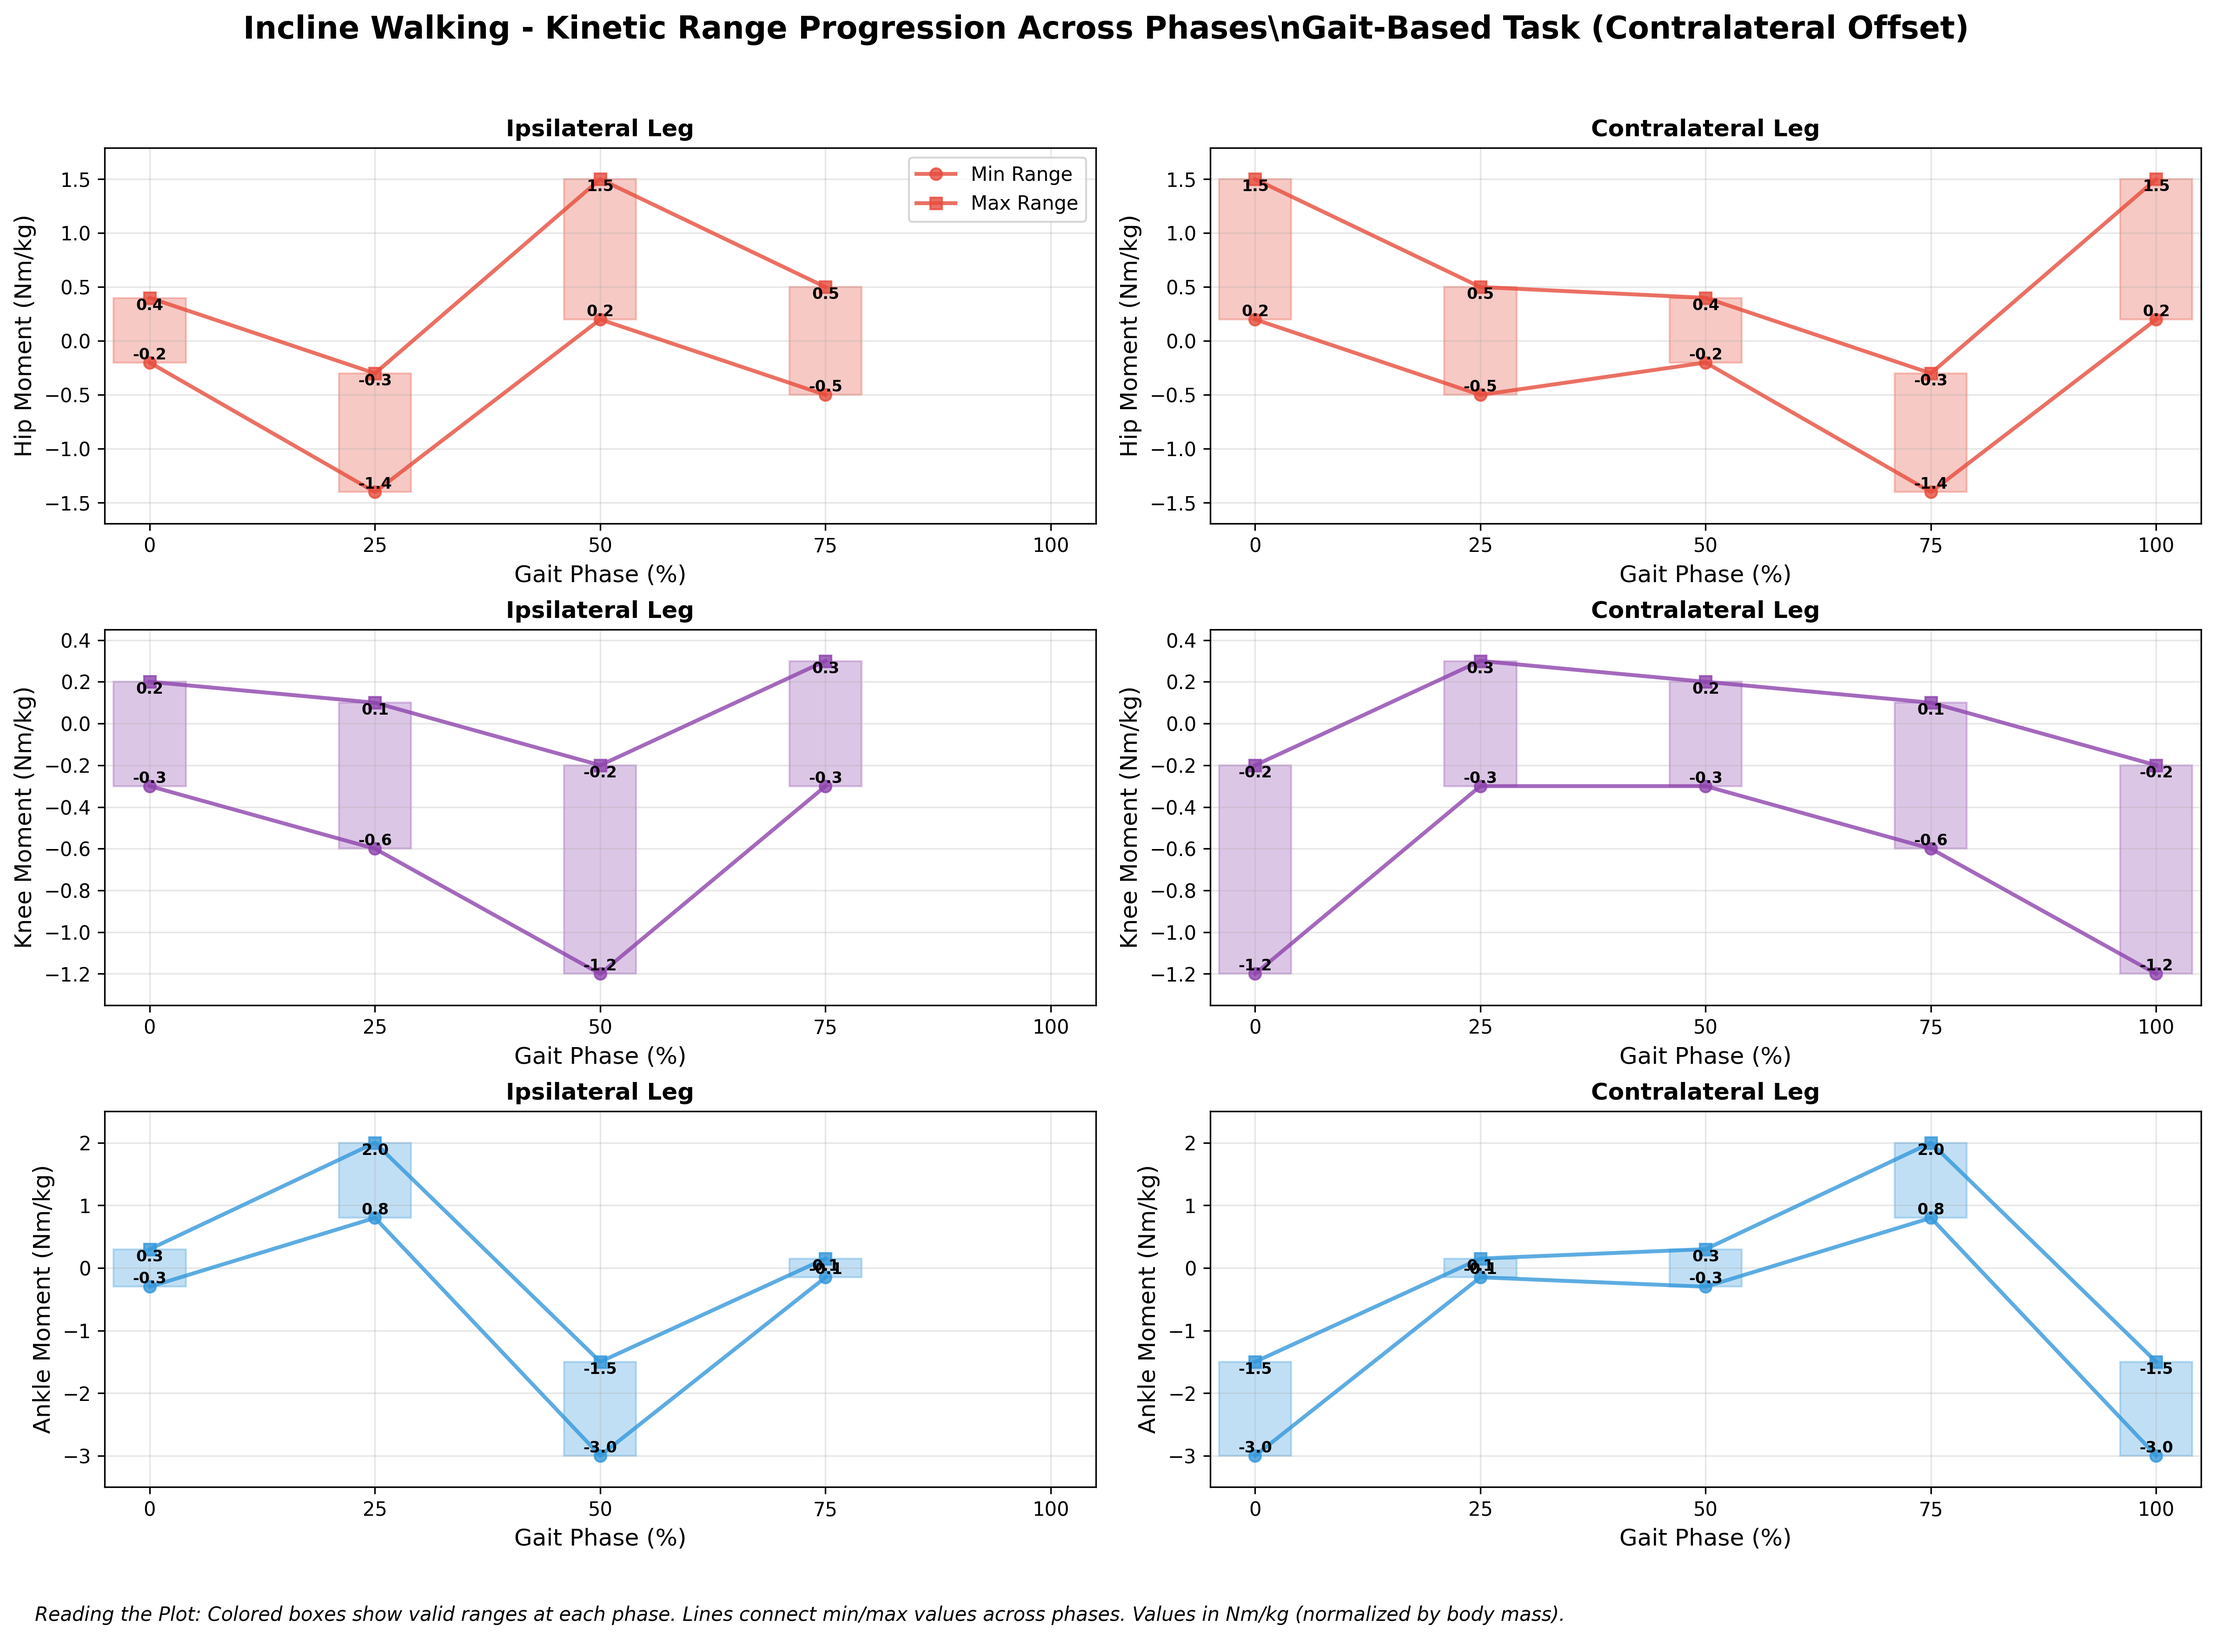
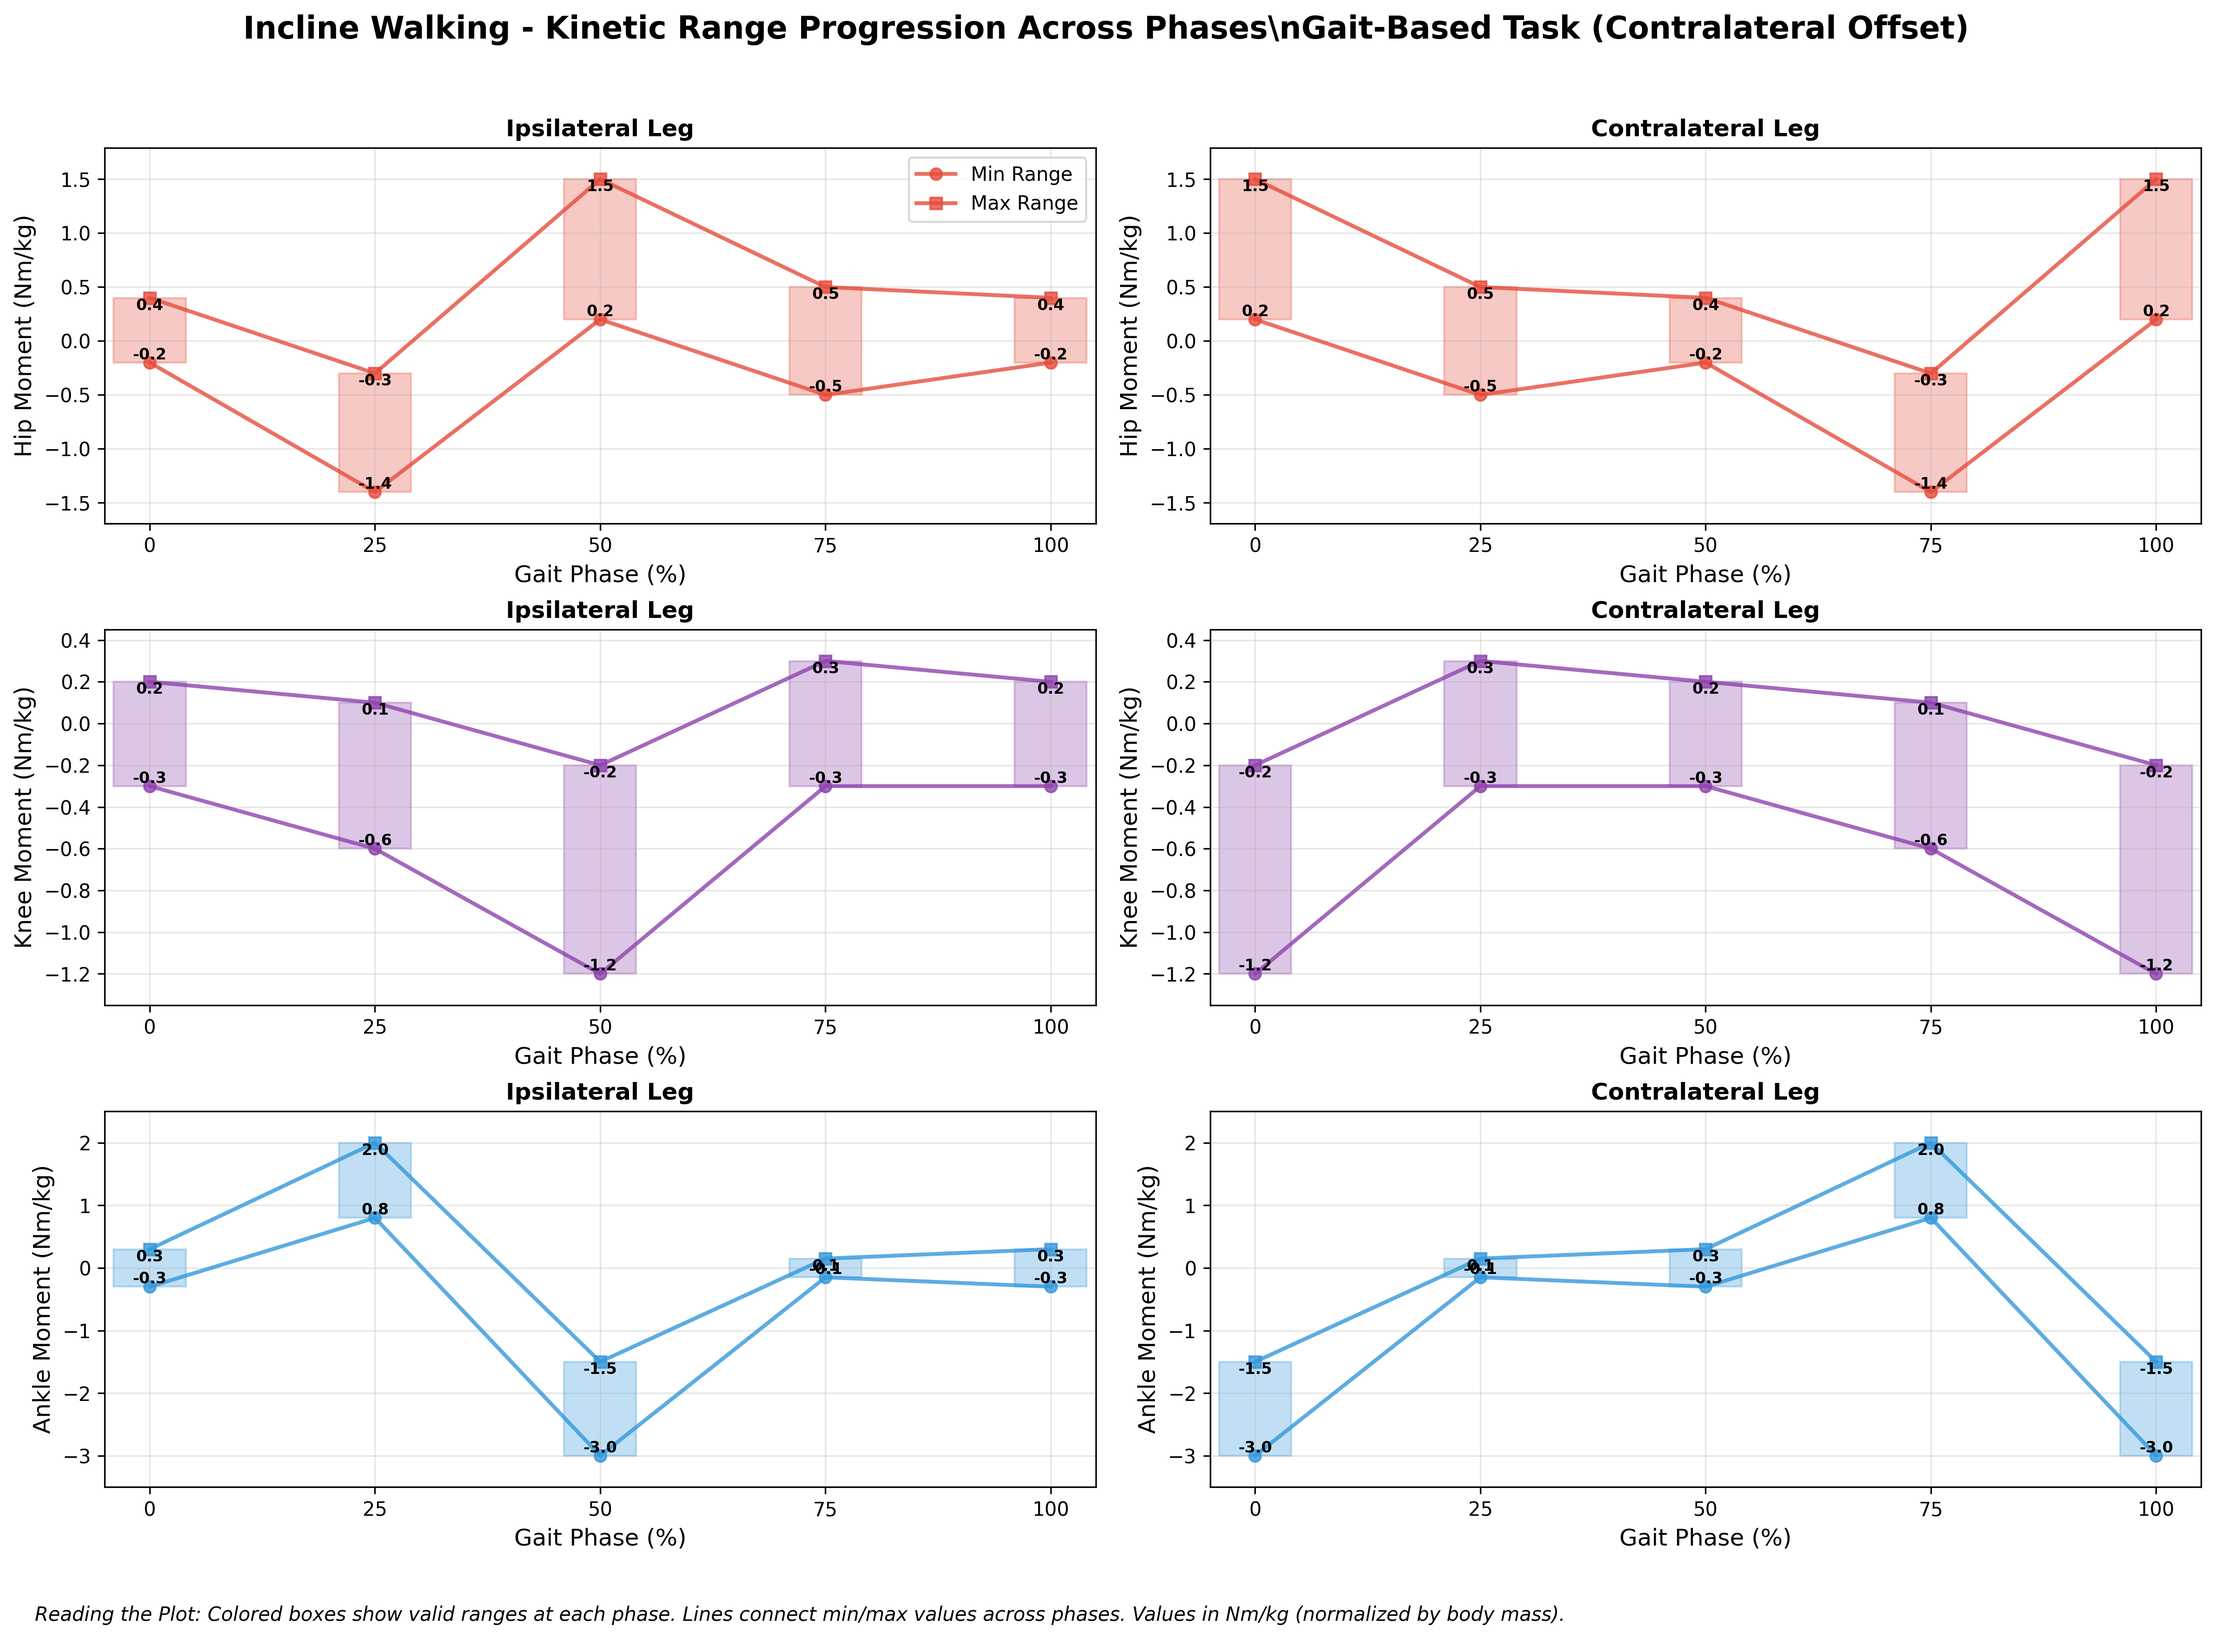
Add 100% phase cyclical completion to both kinematic and kinetic validation
- Add Phase 100% sections to all tasks with values identical to 0% phase
- Ensures proper cyclical visualization in phase progression plots
- Updated both kinematic and kinetic validation expectation files
- Regenerated all 6 phase progression plots (3 kinematic + 3 kinetic)
- Perfect cyclical completion now shown: 100% phase = 0% phase values
- Enhances plot readability and biomechanical accuracy for gait cycle analysis

Both validation systems now show complete gait cycle patterns.

🤖 Generated with [Claude Code](https://claude.ai/code)

diff --git a/docs/standard_spec/validation_expectations_kinetic.md b/docs/standard_spec/validation_expectations_kinetic.md
@@ -206,6 +206,18 @@ Following the **OpenSim coordinate system** as defined in [sign_conventions.md](
 | cop_x_m | -0.20 | 0.20 | m | COP undefined during swing (no ground contact) - **Literature estimate** |
 | cop_y_m | -0.20 | 0.20 | m | COP undefined during swing (no ground contact) - **Literature estimate** |
 
+#### Phase 100% (Heel Strike - Cycle Complete)
+| Variable | Min_Value | Max_Value | Units | Notes |
+|----------|-----------|-----------|-------|-------|
+| vertical_grf_N_kg | 8.0 | 12.0 | N/kg | Return to initial loading response (same as 0%) |
+| ap_grf_N_kg | -2.0 | 0.5 | N/kg | Return to initial braking forces (same as 0%) |
+| ml_grf_N_kg | -1.0 | 1.0 | N/kg | Return to lateral balance (same as 0%) |
+| hip_moment_ipsi_Nm_kg | -0.1 | 0.3 | Nm/kg | Return to small hip flexor moment (same as 0%) |
+| knee_moment_ipsi_Nm_kg | -0.2 | 0.1 | Nm/kg | Return to small knee flexor moment (same as 0%) |
+| ankle_moment_ipsi_Nm_kg | -0.3 | 0.3 | Nm/kg | Return to ankle moment at contact (same as 0%) |
+| cop_x_m | -0.10 | -0.05 | m | Return to COP posterior position (same as 0%) |
+| cop_y_m | -0.03 | 0.03 | m | Return to COP near foot center (same as 0%) |
+
 **Contralateral Offset Logic:**
 - **Phase 0% ipsilateral** (heel strike) = **Phase 50% contralateral** (toe-off)
 - **Phase 25% ipsilateral** (mid-stance) = **Phase 75% contralateral** (mid-swing)  
@@ -268,6 +280,18 @@ Following the **OpenSim coordinate system** as defined in [sign_conventions.md](
 | cop_x_m | -0.20 | 0.20 | m | COP undefined during swing - **NEEDS RESEARCH** |
 | cop_y_m | -0.20 | 0.20 | m | COP undefined during swing - **NEEDS RESEARCH** |
 
+#### Phase 100% (Heel Strike - Cycle Complete)
+| Variable | Min_Value | Max_Value | Units | Notes |
+|----------|-----------|-----------|-------|-------|
+| vertical_grf_N_kg | 6.0 | 14.0 | N/kg | Return to higher incline impact (same as 0%) |
+| ap_grf_N_kg | -4.0 | 0.0 | N/kg | Return to strong braking uphill (same as 0%) |
+| ml_grf_N_kg | -1.2 | 1.2 | N/kg | Return to lateral balance (same as 0%) |
+| hip_moment_ipsi_Nm_kg | -0.2 | 0.4 | Nm/kg | Return to small hip flexor moment (same as 0%) |
+| knee_moment_ipsi_Nm_kg | -0.3 | 0.2 | Nm/kg | Return to small knee moment (same as 0%) |
+| ankle_moment_ipsi_Nm_kg | -0.3 | 0.3 | Nm/kg | Return to ankle moment at contact (same as 0%) |
+| cop_x_m | -0.12 | -0.08 | m | Return to COP posterior position (same as 0%) |
+| cop_y_m | -0.04 | 0.04 | m | Return to COP near center (same as 0%) |
+
 **Contralateral Offset Logic:**
 - **Phase 0% ipsilateral** (heel strike) = **Phase 50% contralateral** (toe-off)
 - **Phase 25% ipsilateral** (mid-stance) = **Phase 75% contralateral** (mid-swing)  
@@ -329,6 +353,18 @@ Following the **OpenSim coordinate system** as defined in [sign_conventions.md](
 | ankle_moment_ipsi_Nm_kg | -0.3 | 0.3 | Nm/kg | Ankle swing moment - **Literature estimate** |
 | cop_x_m | -0.20 | 0.20 | m | COP undefined during flight phase - **Literature estimate** |
 | cop_y_m | -0.20 | 0.20 | m | COP undefined during flight phase - **Literature estimate** |
+
+#### Phase 100% (Heel Strike - Cycle Complete)
+| Variable | Min_Value | Max_Value | Units | Notes |
+|----------|-----------|-----------|-------|-------|
+| vertical_grf_N_kg | 19.6 | 28.4 | N/kg | Return to high impact forces (same as 0%) |
+| ap_grf_N_kg | -8.0 | 3.0 | N/kg | Return to strong braking forces (same as 0%) |
+| ml_grf_N_kg | -2.0 | 2.0 | N/kg | Return to lateral balance (same as 0%) |
+| hip_moment_ipsi_Nm_kg | -0.3 | 0.5 | Nm/kg | Return to small hip moment (same as 0%) |
+| knee_moment_ipsi_Nm_kg | -0.4 | 0.3 | Nm/kg | Return to small knee moment (same as 0%) |
+| ankle_moment_ipsi_Nm_kg | -0.6 | 0.6 | Nm/kg | Return to ankle moment at contact (same as 0%) |
+| cop_x_m | -0.08 | -0.03 | m | Return to COP posterior position (same as 0%) |
+| cop_y_m | -0.05 | 0.05 | m | Return to COP variable position (same as 0%) |
 
 **Contralateral Offset Logic:**
 - **Phase 0% ipsilateral** (heel strike) = **Phase 50% contralateral** (toe-off)

diff --git a/docs/standard_spec/validation_expectations_kinematic.md b/docs/standard_spec/validation_expectations_kinematic.md
@@ -112,6 +112,16 @@ This document provides biomechanically verified kinematic validation ranges (joi
 | ap_grf_N | -50 | 50 | N | Minimal AP forces during swing |
 | ml_grf_N | -30 | 30 | N | Minimal ML forces during swing |
 
+#### Phase 100% (Heel Strike - Cycle Complete)
+| Variable | Min_Value | Max_Value | Units | Notes |
+|----------|-----------|-----------|-------|-------|
+| hip_flexion_angle_ipsi_rad | 0.15 (9°) | 0.6 (34°) | rad | Return to initial contact (same as 0%) |
+| knee_flexion_angle_ipsi_rad | 0.0 (0°) | 0.15 (9°) | rad | Return to nearly extended (same as 0%) |
+| ankle_flexion_angle_ipsi_rad | -0.05 (-3°) | 0.05 (3°) | rad | Return to neutral position (same as 0%) |
+| vertical_grf_N | 400 | 1200 | N | Return to initial loading (same as 0%) |
+| ap_grf_N | -300 | 100 | N | Return to initial braking (same as 0%) |
+| ml_grf_N | -100 | 100 | N | Return to initial balance (same as 0%) |
+
 **Contralateral Offset Logic:**
 - **Phase 0% ipsilateral** (heel strike) = **Phase 50% contralateral** (toe-off)
 - **Phase 25% ipsilateral** (mid-stance) = **Phase 75% contralateral** (mid-swing)  
@@ -171,6 +181,16 @@ This document provides biomechanically verified kinematic validation ranges (joi
 | vertical_grf_N | 0 | 100 | N | Minimal swing forces |
 | ap_grf_N | -30 | 30 | N | Minimal swing forces |
 | ml_grf_N | -20 | 20 | N | Minimal swing forces |
+
+#### Phase 100% (Heel Strike - Cycle Complete)
+| Variable | Min_Value | Max_Value | Units | Notes |
+|----------|-----------|-----------|-------|-------|
+| hip_flexion_angle_ipsi_rad | 0.25 (14°) | 0.8 (46°) | rad | Return to increased hip flexion for incline (same as 0%) |
+| knee_flexion_angle_ipsi_rad | 0.0 (0°) | 0.25 (14°) | rad | Return to controlled loading (same as 0%) |
+| ankle_flexion_angle_ipsi_rad | 0.05 (3°) | 0.25 (14°) | rad | Return to dorsiflexion for incline contact (same as 0%) |
+| vertical_grf_N | 500 | 1400 | N | Return to higher incline impact (same as 0%) |
+| ap_grf_N | -400 | 0 | N | Return to strong braking uphill (same as 0%) |
+| ml_grf_N | -120 | 120 | N | Return to lateral balance (same as 0%) |
 
 **Contralateral Offset Logic:**
 - **Phase 0% ipsilateral** (heel strike) = **Phase 50% contralateral** (toe-off)
@@ -413,6 +433,16 @@ This document provides biomechanically verified kinematic validation ranges (joi
 | vertical_grf_N | 0 | 200 | N | Flight phase - minimal forces |
 | ap_grf_N | -80 | 80 | N | Minimal flight forces |
 | ml_grf_N | -50 | 50 | N | Minimal flight forces |
+
+#### Phase 100% (Heel Strike - Cycle Complete)
+| Variable | Min_Value | Max_Value | Units | Notes |
+|----------|-----------|-----------|-------|---------|
+| hip_flexion_angle_ipsi_rad | -0.1 (-6°) | 0.8 (46°) | rad | Return to initial contact with forward lean (same as 0%) |
+| knee_flexion_angle_ipsi_rad | 0.0 (0°) | 0.35 (20°) | rad | Return to impact absorption (same as 0%) |
+| ankle_flexion_angle_ipsi_rad | -0.25 (-14°) | 0.15 (9°) | rad | Return to variable contact strategy (same as 0%) |
+| vertical_grf_N | 1200 | 2800 | N | Return to high impact forces (same as 0%) |
+| ap_grf_N | -600 | 200 | N | Return to strong braking forces (same as 0%) |
+| ml_grf_N | -250 | 250 | N | Return to lateral balance (same as 0%) |
 
 **Contralateral Offset Logic:**
 - **Phase 0% ipsilateral** (heel strike) = **Phase 50% contralateral** (toe-off)
